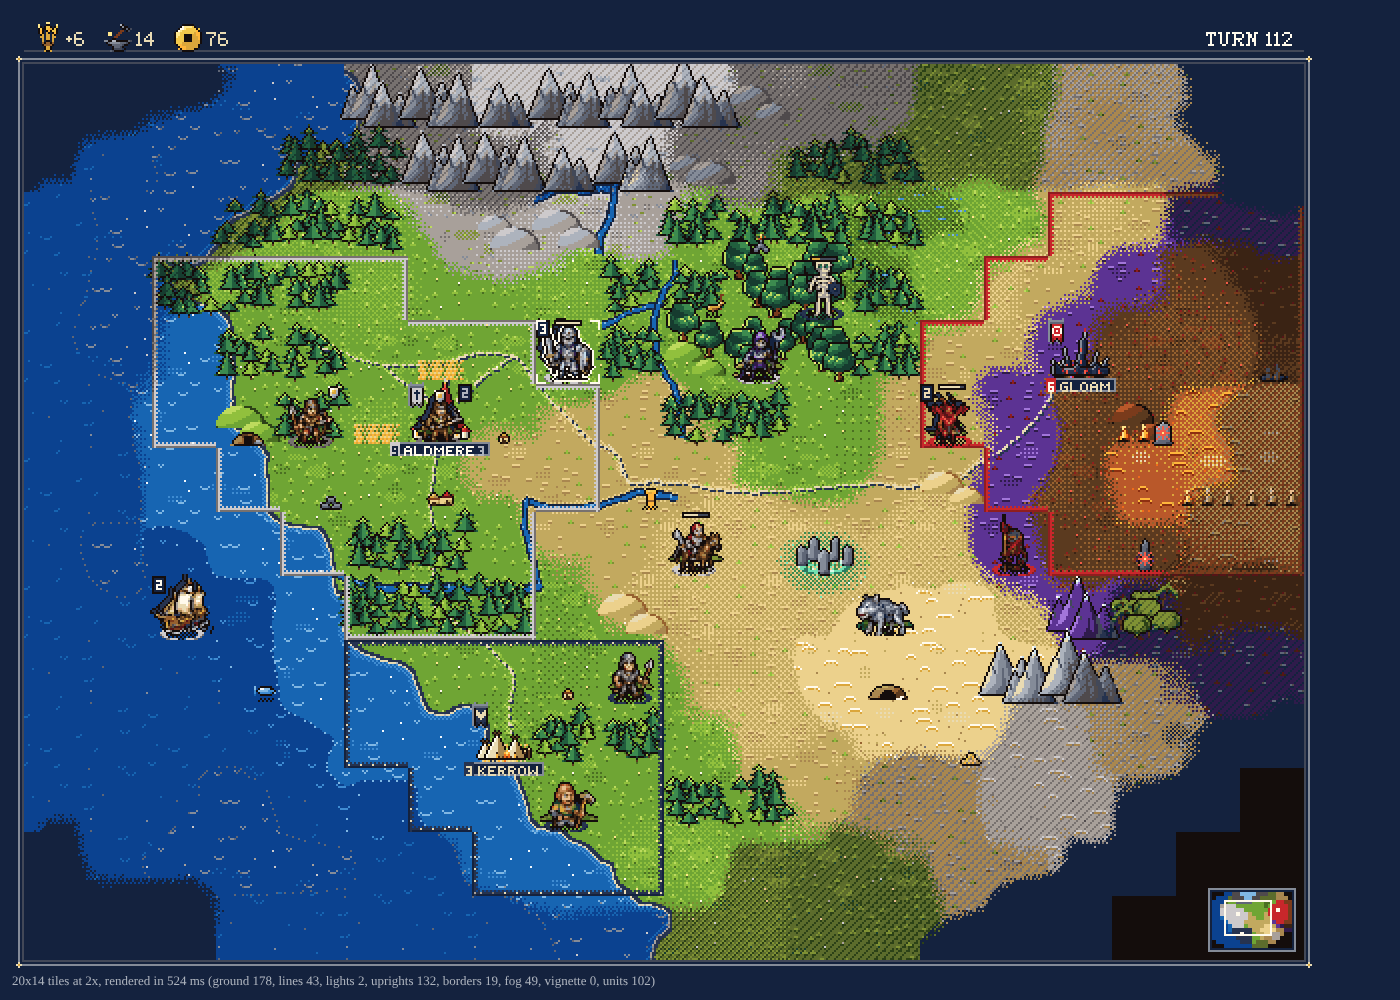
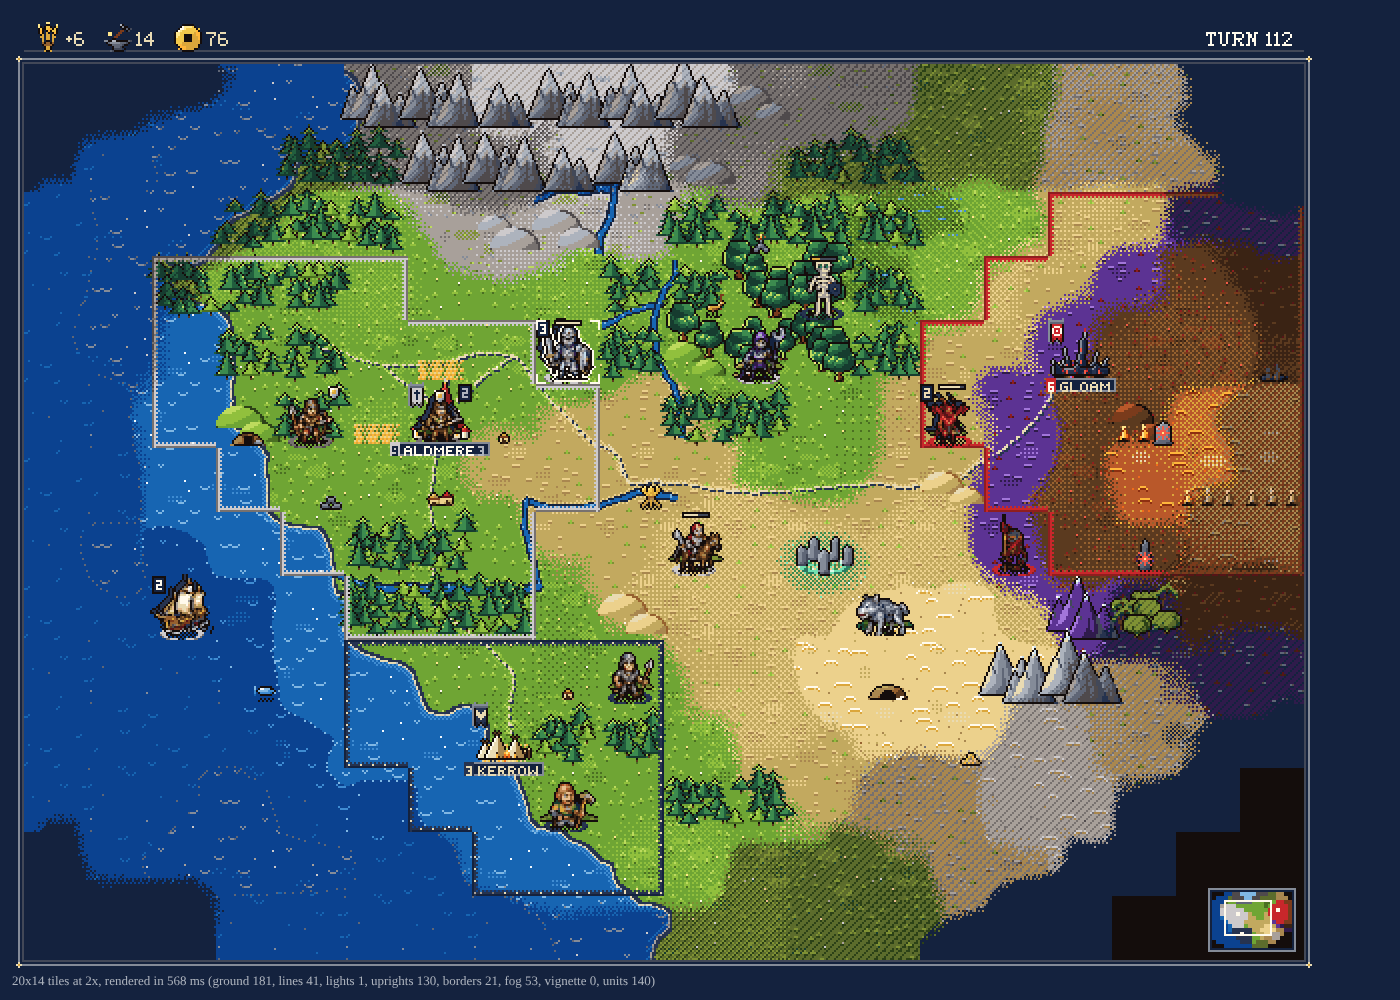
ffh-play art: green tier undersides on pines; hand-drawn wheat, corn, cotton, pearl, toad
Forests: every pine tier ended in a black bar (the outline pass turned its dark underside into
void), so a stand of overlapping pines read as a black lattice. The void outline still closes
each tier's slanted sides; the underside rows keep their darkest green.

Resources: the painted recipes lost the subject at 13x13 (corn read as a gem, wheat as a goblet,
cotton as a lollipop, the pearl and the toad as blobs). They are now hand-drawn fills outlined by
the tool (HAND_RES in compose_map.py): a sheaf of three ears over a tie (also res/_food), a
husked cob, cotton bolls on a shrub, a pearl in an open scallop, a squat frog. The other 55
resources are unchanged. toolkit-scene.png and ref-styles.png retaken.

Claude-Session: https://claude.ai/code/session_01CnFjsGvSUb63tBon8ibMKq

diff --git a/projects/ffh2-rs/crates/ffh-play/web/art/tools/atlas/compose_map.py b/projects/ffh2-rs/crates/ffh-play/web/art/tools/atlas/compose_map.py
@@ -82,7 +82,10 @@ def deadtree(p, cx, foot, height, keys='hBD'):
 def pine_px(p, cx, foot, tiers, keys='mTtk', trunk='ru'):
     """A pine by pixel rules: tiers = [(rows, half-width at the bottom)] from the top tier down; each
     tier widens a pixel a row, its left edge lit, its right half shaded, its last row the dark
-    underside with drooping tips; a void outline around it (rows() adds it)."""
+    underside with drooping tips. The void outline (rows() adds it) closes the slanted sides, but
+    each tier's underside row keeps its darkest green: a forest is many overlapping pines, and a
+    black bar under every tier would make it a dark lattice that outshouts the units (docs/ART.md
+    4.3)."""
     lit, base, shade, deep = keys
     y = foot - 1 - sum(r for r, _ in tiers) + (len(tiers) - 1)   # tiers overlap a row
     p.put(cx, y - 1, lit)                                         # the tip
@@ -104,10 +107,10 @@ def pine_px(p, cx, foot, tiers, keys='mTtk', trunk='ru'):
                     k = base if dx <= 0 else shade
                 else:
                     k = shade if dx < half else deep
-                p.put(x, yy, k)
+                p.put(x, yy, k, okey=deep if last else '0')
             if last and half >= 2:
-                p.put(cx - half - 1, yy, shade)
-                p.put(cx + half + 1, yy, deep)
+                p.put(cx - half - 1, yy, shade, okey=deep)
+                p.put(cx + half + 1, yy, deep, okey=deep)
         y += rows - 1
     for yy in range(y + 1, foot + 1):
         p.put(cx, yy, trunk[0])
@@ -1090,13 +1093,6 @@ def res(fn):
     return fn
 
 
-def sheaf(p, keys='ylKY'):
-    for dx in (-2.4, -1.2, 0, 1.2, 2.4):
-        p.add(lambda s, dx=dx: s.stroke([(6.5 + dx * 0.4, 12.4), (6.5 + dx, 4.4)], 0.55, 0.5, smooth=False), keys, flat=1, sep=False)
-        p.add(lambda s, dx=dx: s.ellipse(6.5 + dx * 1.15, 3.4, 0.85, 1.6), keys, sigma=0.6, sep=False)
-    p.add(lambda s: s.rect(4.4, 8, 8.6, 9.2), 'riu', flat=1, sep=False)
-
-
 def ingots(p, keys):
     for (x, y) in ((3.6, 12.4), (9.4, 12.4), (6.5, 9.4)):
         p.add(lambda s, x=x, y=y: s.poly([(x - 3, y), (x - 2.2, y - 3), (x + 2.2, y - 3), (x + 3, y)]), keys, sigma=0.9, gloss=keys[-1])
@@ -1126,8 +1122,94 @@ def quad(p, x, base, body, head, keys, legs='0', horns=None, mane=None):
         p.add(lambda s: s.stroke([(x + body[0] - 1.4, base - 5.6), (hx - 0.4, hy - 0.8)], 0.7, 0.6), mane, flat=0, sep=False)
 
 
+# Hand-drawn objects where the painted recipe lost the subject at 13x13 (the art review: corn read as
+# a gem, wheat as a goblet, cotton as a lollipop, the pearl and the toad as blobs). Fills only: the
+# void outline is added around them.
+HAND_RES = {
+    # three ears fanned over a leather tie, the stalks splayed below
+    'wheat': ['.............',
+              '...L..L..L...',
+              '..LK.LKy.Ky..',
+              '..Ky.KKy.yy..',
+              '...KyKyyKy...',
+              '....KyKyy....',
+              '.....iii.....',
+              '.....ijj.....',
+              '....yjyjy....',
+              '...yj.y.jy...',
+              '..yj..y..jy..',
+              '..j...j...j..',
+              '.............'],
+    # a cob of gold kernels in two green husk leaves peeling outward
+    'corn': ['.............',
+             '.....LKy.....',
+             '.....KyK.....',
+             '.....yKy.....',
+             '.....KyK.....',
+             '..O..yKy..O..',
+             '..mO.KyK.Om..',
+             '...mOyKyOm...',
+             '....mOyOm....',
+             '.....mOm.....',
+             '......m......',
+             '......q......',
+             '.............'],
+    # three white bolls on a green shrub
+    'cotton': ['.............',
+               '.....887.....',
+               '....88776....',
+               '.887.776.887.',
+               '8877687688776',
+               '.776.r6r.776.',
+               '..r.mrmrm.r..',
+               '..mmOmmmOmm..',
+               '...mmOqmmq...',
+               '....mmqqm....',
+               '......r......',
+               '......r......',
+               '.............'],
+    # a white pearl in an open scallop: the ribbed fan of the upper shell behind, the bowl in front
+    'pearl': ['.............',
+              '...PPpPpPp...',
+              '..PWpPpPpPv..',
+              '..PpPpPpPpv..',
+              '...PpPpPpv...',
+              '....pF87v....',
+              '....F8876....',
+              '.PP.88766.pv.',
+              '.PPP87766ppv.',
+              '.PPPp766ppvv.',
+              '..PPPpppppv..',
+              '...pppppvv...',
+              '.............'],
+    # a squat frog: eyes on top, a dark mouth line, a pale belly, splayed feet
+    'toad': ['.............',
+             '.............',
+             '..OO.....OO..',
+             '.OW0O...OW0O.',
+             '.OOAOAAAOAAz.',
+             '.OAAAAAAAAAz.',
+             'OAA0000000Azz',
+             'OAAAYYYYAAAzz',
+             '.AAYYYYYYAzz.',
+             '..AAYYYYAzz..',
+             '.OAzAzzzAzzz.',
+             'OA.z.....z.zz',
+             '.............'],
+}
+
+
+def hand_res(p, fill):
+    """A hand-drawn 13x13 fill with a void outline (4-neighbour) around it."""
+    H, W = len(fill), len(fill[0])
+    op = lambda x, y: 0 <= y < H and 0 <= x < W and fill[y][x] != '.'
+    rows = [''.join('0' if c == '.' and any(op(x + dx, y + dy) for dx, dy in ((1, 0), (-1, 0), (0, 1), (0, -1))) else c
+                    for x, c in enumerate(r)) for y, r in enumerate(fill)]
+    stamp(p, rows, 0, 0)
+
+
 @res
-def _food(p): sheaf(p)
+def _food(p): hand_res(p, HAND_RES['wheat'])
 @res
 def _strategic(p): rock_pile(p, '3456', 'K')
 @res
@@ -1138,15 +1220,13 @@ def _mana(p):
 
 
 @res
-def corn(p):
-    p.add(lambda s: s.ellipse(6.5, 6.6, 2.4, 5.0), 'ylKL', sigma=1.2)
-    p.add(lambda s: (s.stroke([(6.5, 12.4), (3.6, 8), (3.2, 4)], 1.0, 0.4), s.stroke([(6.5, 12.4), (9.4, 8.4), (10, 5)], 1.0, 0.4)), 'qmo', sigma=0.6, sep=False)
+def corn(p): hand_res(p, HAND_RES['corn'])
 @res
 def rice(p):
     p.add(lambda s: s.ellipse(6.5, 7.4, 5, 3.4), 'G78', sigma=1.4)
     p.add(lambda s: s.poly([(1.2, 8), (11.8, 8), (10, 12.4), (3, 12.4)]), 'hriu', sigma=1.0)
 @res
-def wheat(p): sheaf(p)
+def wheat(p): hand_res(p, HAND_RES['wheat'])
 @res
 def cow(p): quad(p, 5.8, 12.6, (3.8, 2.4), (1.4, 1.2), 'riuj', horns='78')
 @res
@@ -1159,10 +1239,7 @@ def sheep(p):
     p.add(lambda s: (s.ellipse(6, 7.6, 4.2, 2.8), s.ellipse(4, 6.4, 2, 1.8), s.ellipse(7.6, 6.2, 2.2, 1.8)), '678', sigma=1.2)
     p.add(lambda s: s.ellipse(10.8, 6.6, 1.5, 1.4), '0BD', sigma=0.6)
 @res
-def toad(p):
-    p.add(lambda s: s.ellipse(6.5, 9.4, 5, 3.2), 'wzAO', sigma=1.4)
-    p.add(lambda s: (s.ellipse(4.4, 6.6, 1.3, 1.2), s.ellipse(8.6, 6.6, 1.3, 1.2)), 'zAO', sigma=0.5, sep=False)
-    p.solid(lambda s: (s.ellipse(4.4, 6.6, 0.5, 0.5), s.ellipse(8.6, 6.6, 0.5, 0.5)), '0')
+def toad(p): hand_res(p, HAND_RES['toad'])
 @res
 def banana(p):
     for dx in (-2.2, 0, 2.2):
@@ -1262,14 +1339,9 @@ def wine(p):
         p.add(lambda s, x=x, y=y: s.ellipse(x, y, 1.3, 1.3), 'vpPW', sigma=0.6, gloss='W')
     p.add(lambda s: s.poly([(6.5, 3.4), (9, 0.6), (11.6, 2.4), (9.6, 3.6)]), 'qmo', sigma=0.6)
 @res
-def pearl(p):
-    p.add(lambda s: s.poly([(0.6, 9), (3, 12.4), (10, 12.4), (12.4, 9), (6.5, 10.6)]), 'jQY', sigma=0.8)
-    p.add(lambda s: s.ellipse(6.5, 7.4, 2.6, 2.6), 'G78F', sigma=1.0, gloss='F')
+def pearl(p): hand_res(p, HAND_RES['pearl'])
 @res
-def cotton(p):
-    p.add(lambda s: s.stroke([(6.5, 12.6), (6.5, 7)], 0.5, 0.5, smooth=False), 'ri', flat=0, sep=False)
-    for (x, y) in ((4.4, 5.6), (8.6, 5.6), (6.5, 3.6), (6.5, 7)):
-        p.add(lambda s, x=x, y=y: s.ellipse(x, y, 2.2, 2.0), '678', sigma=0.9)
+def cotton(p): hand_res(p, HAND_RES['cotton'])
 @res
 def ale(p):
     p.add(lambda s: s.rect(2.6, 4.4, 9, 12.6), 'hriu', sigma=1.0)

diff --git a/projects/ffh2-rs/docs/ART.md b/projects/ffh2-rs/docs/ART.md
@@ -577,6 +577,8 @@ The feature sprites are painted by `tools/atlas/compose_map.py` (4.3):
 
 - **Forest**: pines by pixel rules, two to four tiers widening a pixel a row, a lit `m`/`O` west edge,
   needle `T` body, pine `t` shade and a dark `k` underside with drooping tips, an umber trunk;
+  the void outline closes each tier's slanted sides, but the underside rows stay `k`, not void, so
+  a stand of overlapping pines reads as green tiers, not a black lattice;
   seven shapes (one in the mossy ramp) scattered per tile. **New forest**: saplings by the same
   rules. **Ancient forest**: broad canopies of overlapping lit domes in deep greens over a thick
   rooted trunk, rising into the tile above.
@@ -619,7 +621,7 @@ goody hut is a small cairn with a flickering candle.
 
 A revealed resource (`BONUS_*`) is a **small object** standing in the tile's lower right, as in the
 references: a 13x13 painted sprite with its feet at (6, 12), drawn with its feet at tile (25, 30)
-on a soft checker shadow. The object names the resource: a golden sheaf, a cob of corn, a bowl of
+on a soft checker shadow. The object names the resource: a golden sheaf, a husked cob of corn, a bowl of
 rice, a cow, a pig, a sheep, a deer, a toad, a banana bunch, a fish, a clam, a crab, a whale's back
 and spout; copper, iron and mithril ingots; a horse and the nightmare; a keg, a vial of reagents, a
 veined sheut stone, a marble block, a dye pot, a pelt, cut gems, gold nuggets, a censer, a tusk, a
@@ -627,6 +629,10 @@ bolt of silk, sugar cane, grapes, a pearl in its shell, cotton, a tankard of ale
 clothes, a jewelled ring, razorweed, a sealed jar, the Fruit of Yggdrasil. **Mana** is a standing
 stone carved with its sphere's rune (colour the family, shape the sphere, 11.5). The category
 objects (`res/_food`, `_strategic`, `_luxury`, `_mana`) are the fallbacks for bonuses added later.
+Where painting lost the subject at this size, the object is drawn by hand as a fill that the tool
+outlines (`HAND_RES` in `compose_map.py`): the sheaf (three ears fanned over a tie, stalks
+splayed; also `res/_food`), the husked cob, cotton bolls on a shrub, a pearl in an open scallop,
+the squat frog.
 
 ### 6.2 Landmarks (unique improvements)
 
